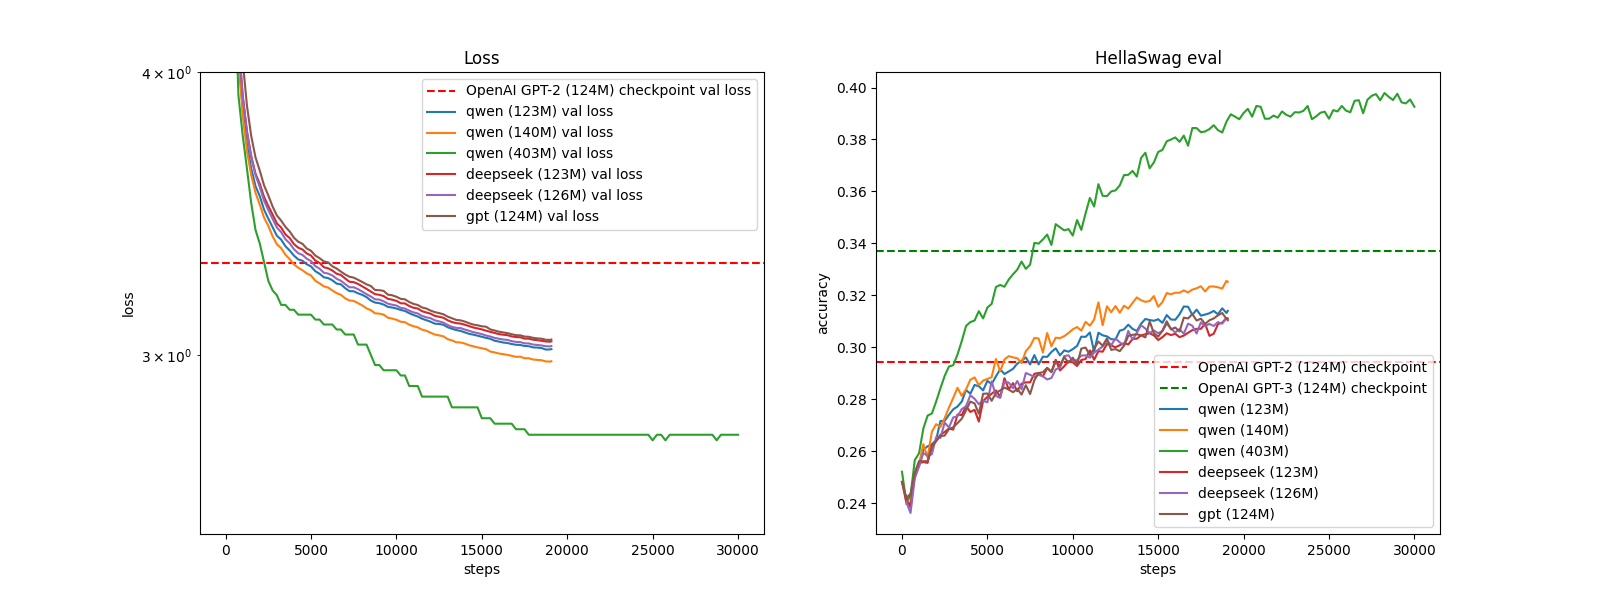
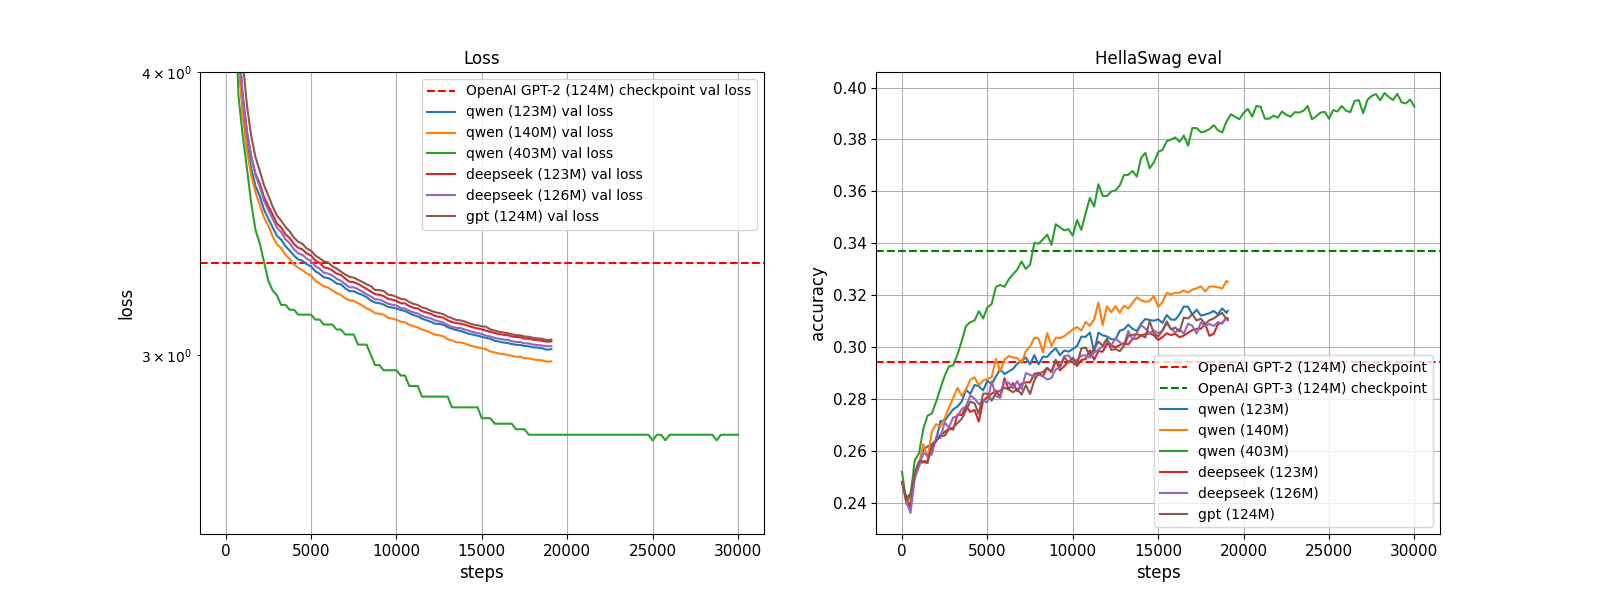
adjust figure

diff --git a/visual.py b/visual.py
@@ -61,14 +61,16 @@ for model_type in models:
             plt.axhline(y=loss_baseline, color='r', linestyle='--', label=f"OpenAI GPT-2 ({sz}) checkpoint val loss")
         xs, ys = streams_xy["train"] # training loss
         ys = np.array(ys)
-        plt.plot(xs, ys, label=f'nano{model_type.lower()} ({param_count}) train loss')
+
+        plt.plot(xs, ys, label=f'{model_type.lower()} ({param_count}) train loss')
         print("Min Train Loss:", min(ys))
         xs, ys = streams_xy["val"] # validation loss
-        plt.plot(xs, ys, label=f'nano{model_type.lower()} ({param_count}) val loss')
-        plt.xlabel("steps")
-        plt.ylabel("loss")
+        plt.plot(xs, ys, label=f'{model_type.lower()} ({param_count}) val loss')
+        plt.xlabel("steps", fontsize=12)
+        plt.ylabel("loss", fontsize=12)
         plt.yscale('log')
         plt.ylim(top=6.0)
+        plt.gca().tick_params(axis='both', which='major', labelsize=11)
         plt.legend()
         plt.title("Loss")
         print("Min Validation Loss:", min(ys))
@@ -82,9 +84,10 @@ for model_type in models:
             plt.axhline(y=hella3_baseline, color='g', linestyle='--', label=f"OpenAI GPT-3 ({sz}) checkpoint")
         xs, ys = streams_xy["hella"] # HellaSwag eval
         ys = np.array(ys)
-        plt.plot(xs, ys, label=f"nano{model_type.lower()} ({param_count})")
-        plt.xlabel("steps")
-        plt.ylabel("accuracy")
+        plt.plot(xs, ys, label=f"{model_type.lower()} ({param_count})")
+        plt.xlabel("steps", fontsize=12)
+        plt.ylabel("accuracy", fontsize=12)
+        plt.gca().tick_params(axis='both', which='major', labelsize=11)
         plt.legend()
         plt.title("HellaSwag eval")
         print("Max Hellaswag eval:", max(ys), "\n")
@@ -126,11 +129,13 @@ for model_type in models:
         if loss_baseline is not None and draw_baseline:
             plt.axhline(y=loss_baseline, color='r', linestyle='--', label=f"OpenAI GPT-2 ({sz}) checkpoint val loss")
         xs, ys = streams_xy["val"] # validation loss
-        plt.plot(xs, ys, label=f'nano{model_type.lower()} ({param_count}) val loss')
-        plt.xlabel("steps")
-        plt.ylabel("loss")
+        plt.plot(xs, ys, label=f'{model_type.lower()} ({param_count}) val loss')
+        plt.xlabel("steps", fontsize=12)
+        plt.ylabel("loss", fontsize=12)
         plt.yscale('log')
-        plt.ylim(top=4.0)
+        plt.ylim(top=4.0, bottom=2.5)
+        plt.grid(True)
+        plt.gca().tick_params(axis='both', which='major', labelsize=11)
         plt.legend()
         plt.title("Loss")
 
@@ -144,9 +149,11 @@ for model_type in models:
             draw_baseline = False
         xs, ys = streams_xy["hella"] # HellaSwag eval
         ys = np.array(ys)
-        plt.plot(xs, ys, label=f"nano{model_type.lower()} ({param_count})")
-        plt.xlabel("steps")
-        plt.ylabel("accuracy")
+        plt.plot(xs, ys, label=f"{model_type.lower()} ({param_count})")
+        plt.xlabel("steps", fontsize=12)
+        plt.ylabel("accuracy", fontsize=12)
+        plt.grid(True)
+        plt.gca().tick_params(axis='both', which='major', labelsize=11)
         plt.legend()
         plt.title("HellaSwag eval")
 plt.savefig(f'fig/loss_all.png')
